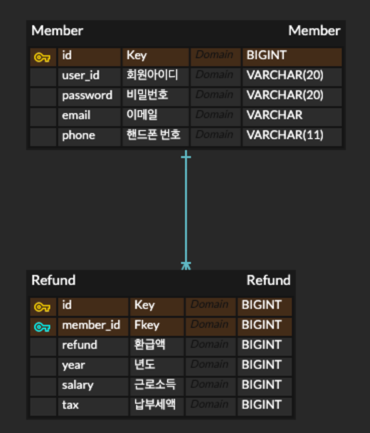
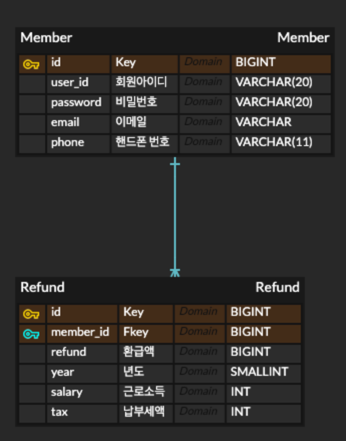
엔티티 구현

diff --git a/src/main/java/seaung/myrefundapi/domain/entity/Member.java b/src/main/java/seaung/myrefundapi/domain/entity/Member.java
@@ -1,0 +1,34 @@
+package seaung.myrefundapi.domain.entity;
+
+import lombok.AccessLevel;
+import lombok.Builder;
+import lombok.Getter;
+import lombok.NoArgsConstructor;
+
+import javax.persistence.*;
+
+@Entity
+@Getter
+@NoArgsConstructor(access = AccessLevel.PROTECTED)
+public class Member {
+    @Id
+    @GeneratedValue(strategy = GenerationType.IDENTITY)
+    @Column(name = "member_id")
+    private Long id;
+    @Column(length = 20)
+    private String user_id;
+    @Column(length = 20)
+    private String password;
+    private String email;
+    @Column(length = 10)
+    private String phone;
+
+    @Builder
+    public Member(Long id, String user_id, String password, String email, String phone) {
+        this.id = id;
+        this.user_id = user_id;
+        this.password = password;
+        this.email = email;
+        this.phone = phone;
+    }
+}

diff --git a/src/main/java/seaung/myrefundapi/domain/entity/Refund.java b/src/main/java/seaung/myrefundapi/domain/entity/Refund.java
@@ -1,0 +1,25 @@
+package seaung.myrefundapi.domain.entity;
+
+import lombok.AccessLevel;
+import lombok.Getter;
+import lombok.NoArgsConstructor;
+
+import javax.persistence.*;
+
+@Entity
+@Getter
+@NoArgsConstructor(access = AccessLevel.PROTECTED)
+public class Refund {
+    @Id
+    @GeneratedValue(strategy = GenerationType.IDENTITY)
+    @Column(name = "refunds_id")
+    private Long id;
+    @ManyToOne(fetch = FetchType.LAZY)
+    @JoinColumn(name = "member_id")
+    private Member member;
+    private Long refund;
+    @Column(name = "`year`")
+    private int year;
+    private int salary;
+    private int tax;
+}

diff --git a/README.md b/README.md
@@ -40,3 +40,7 @@
 * 로그인
 * 회원 정보 조회
 * 환급액 조회
+
+## DB(ERD)
+
+![img.png](img.png)
